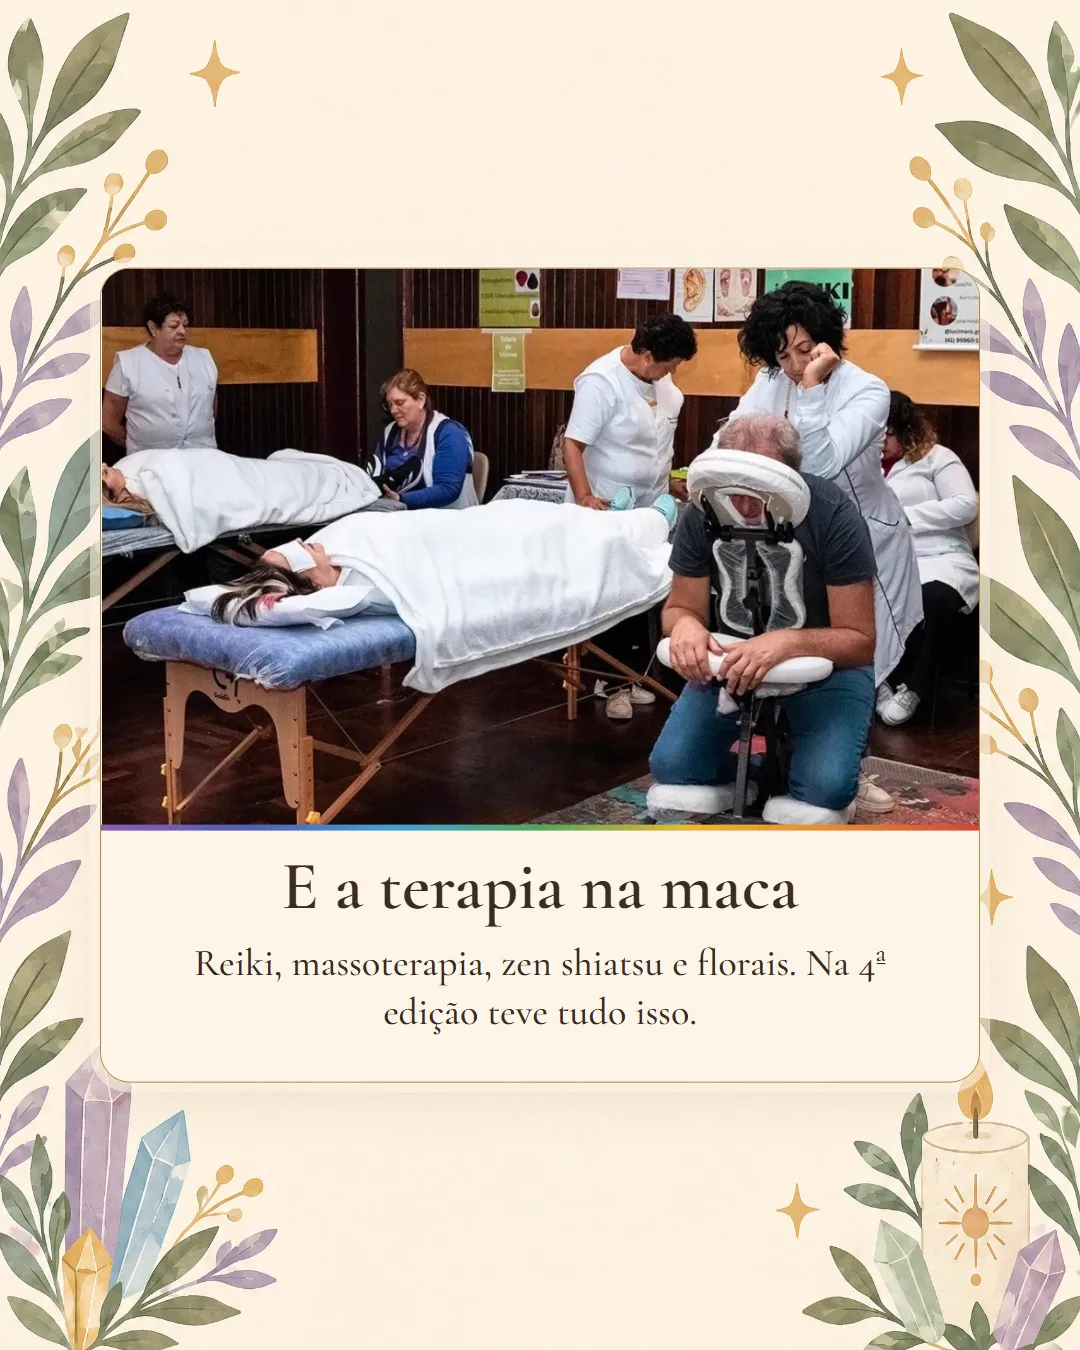
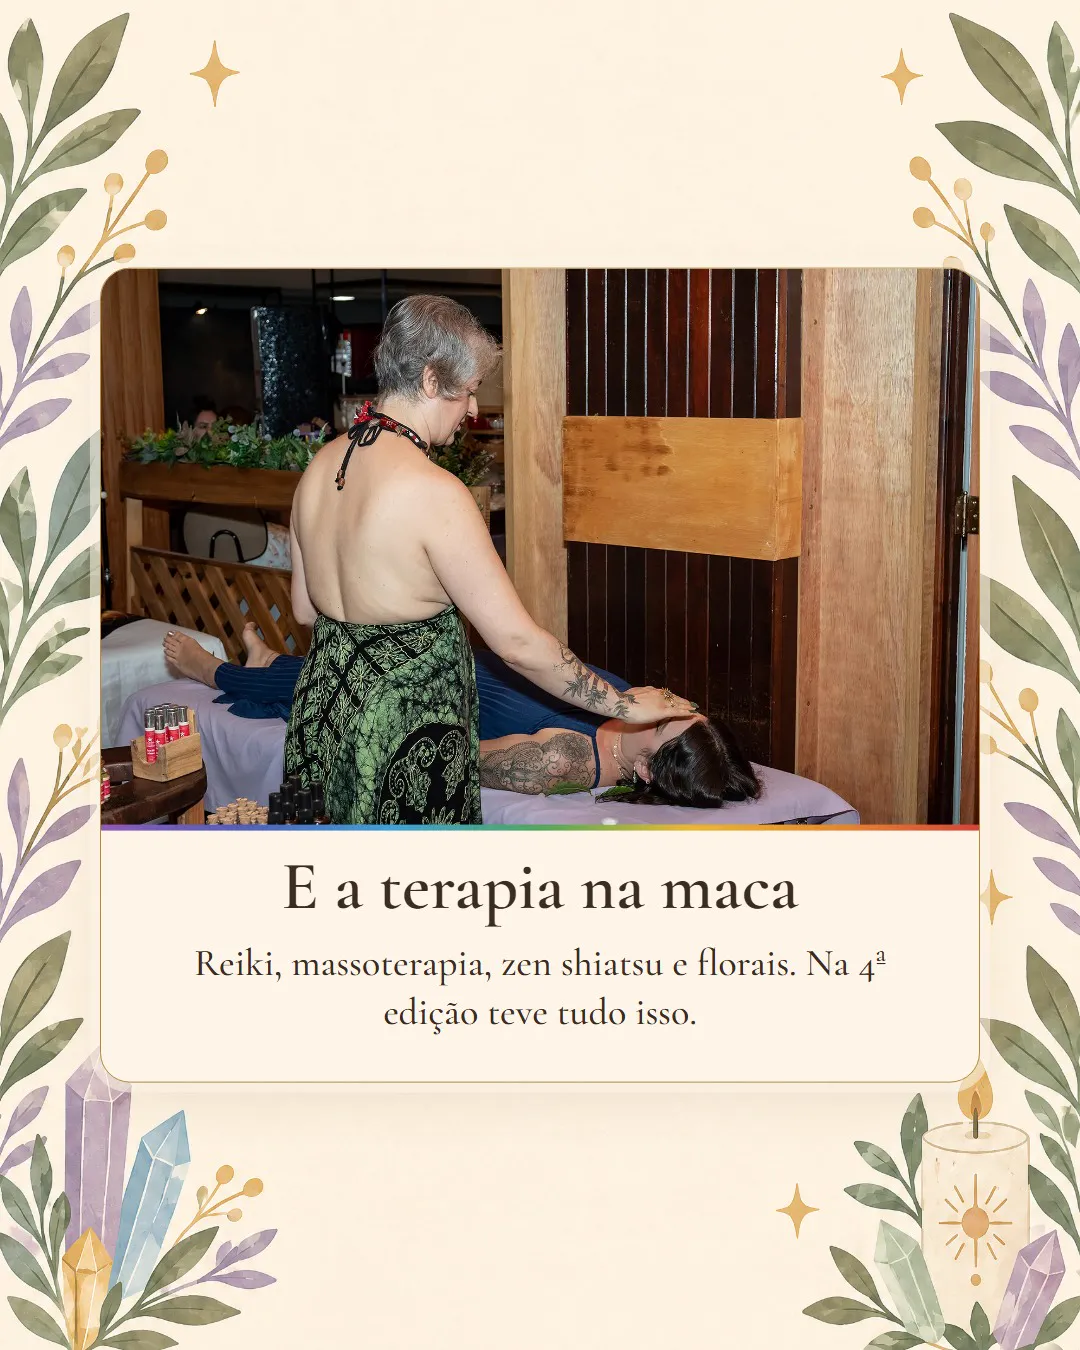
Excellence: foto nova na maca e recorte do post de fim de ano (17/11)

Changed region(s): [[0.0917, 0.1867, 0.9167, 0.6222]]

diff --git a/public/excellence/2026-11-17-reserva-visitante-2/dados.js b/public/excellence/2026-11-17-reserva-visitante-2/dados.js
@@ -91,7 +91,7 @@ window.DADOS = {
      "titulo": "Comece o ano cuidando de você",
      "etiqueta": "Ter 22/12",
      "ordem": "7 de 7",
-     "nota": "O que mudou: foto nova, com uma terapeuta atendendo.",
+     "nota": "O que mudou: a foto agora mostra o atendimento, com as mãos dela sobre a cliente na maca.",
      "slides": [
       {
        "src": "img/1-3-1.webp",
